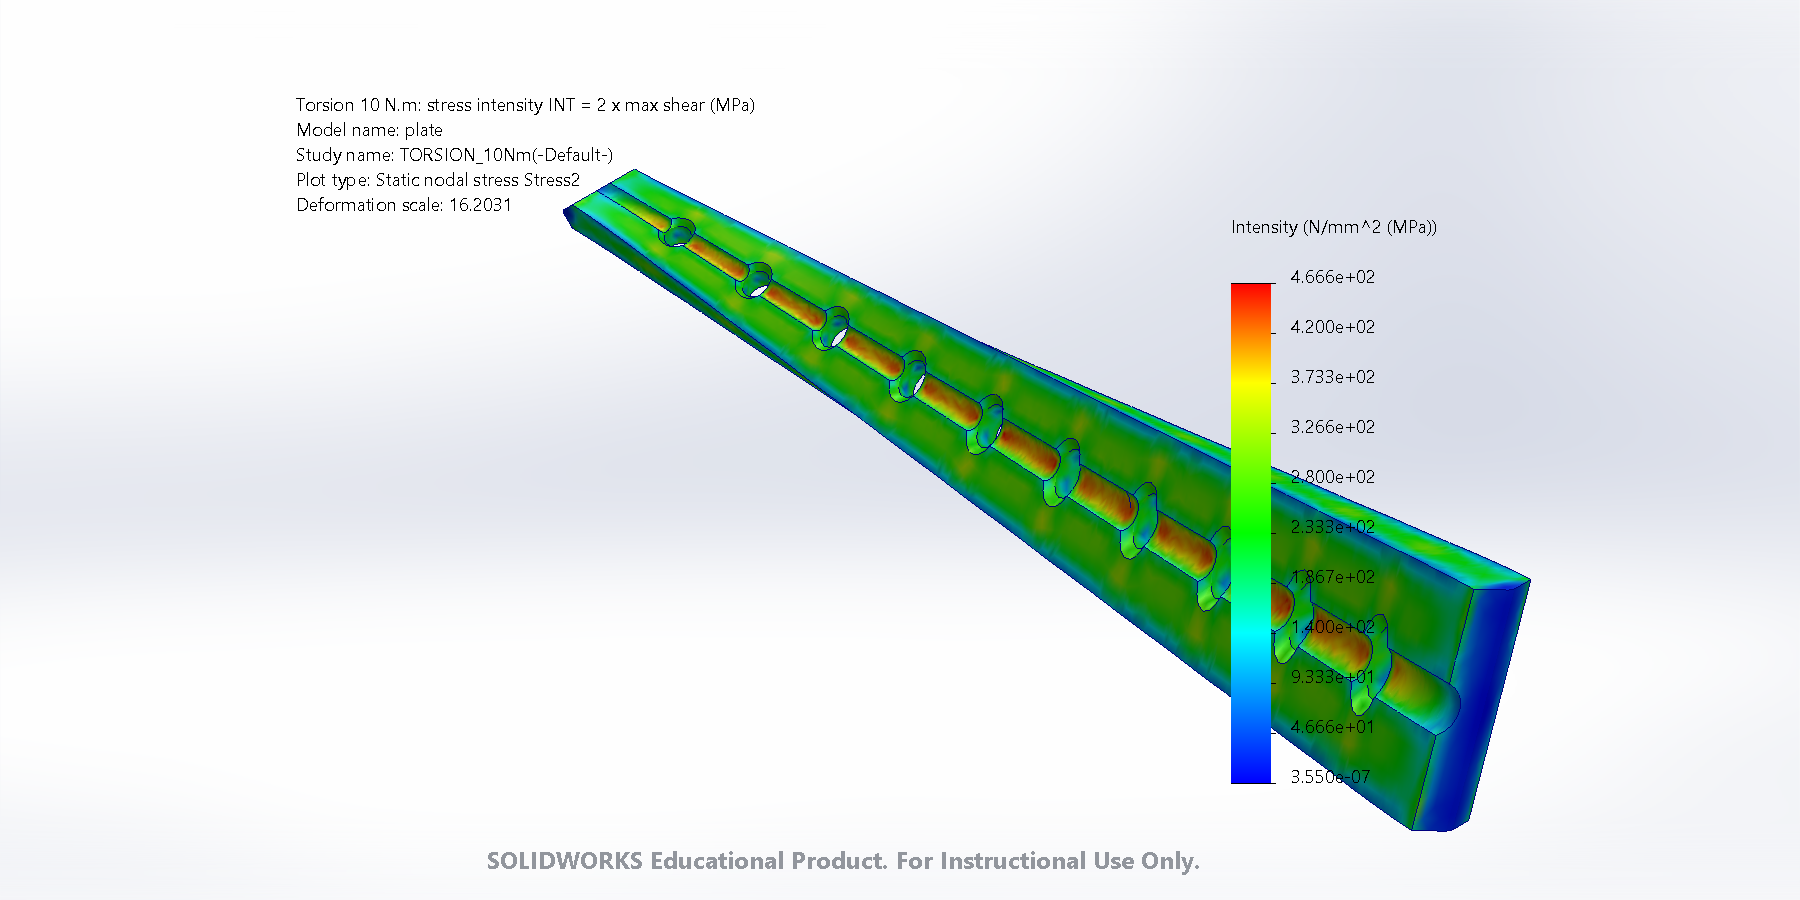
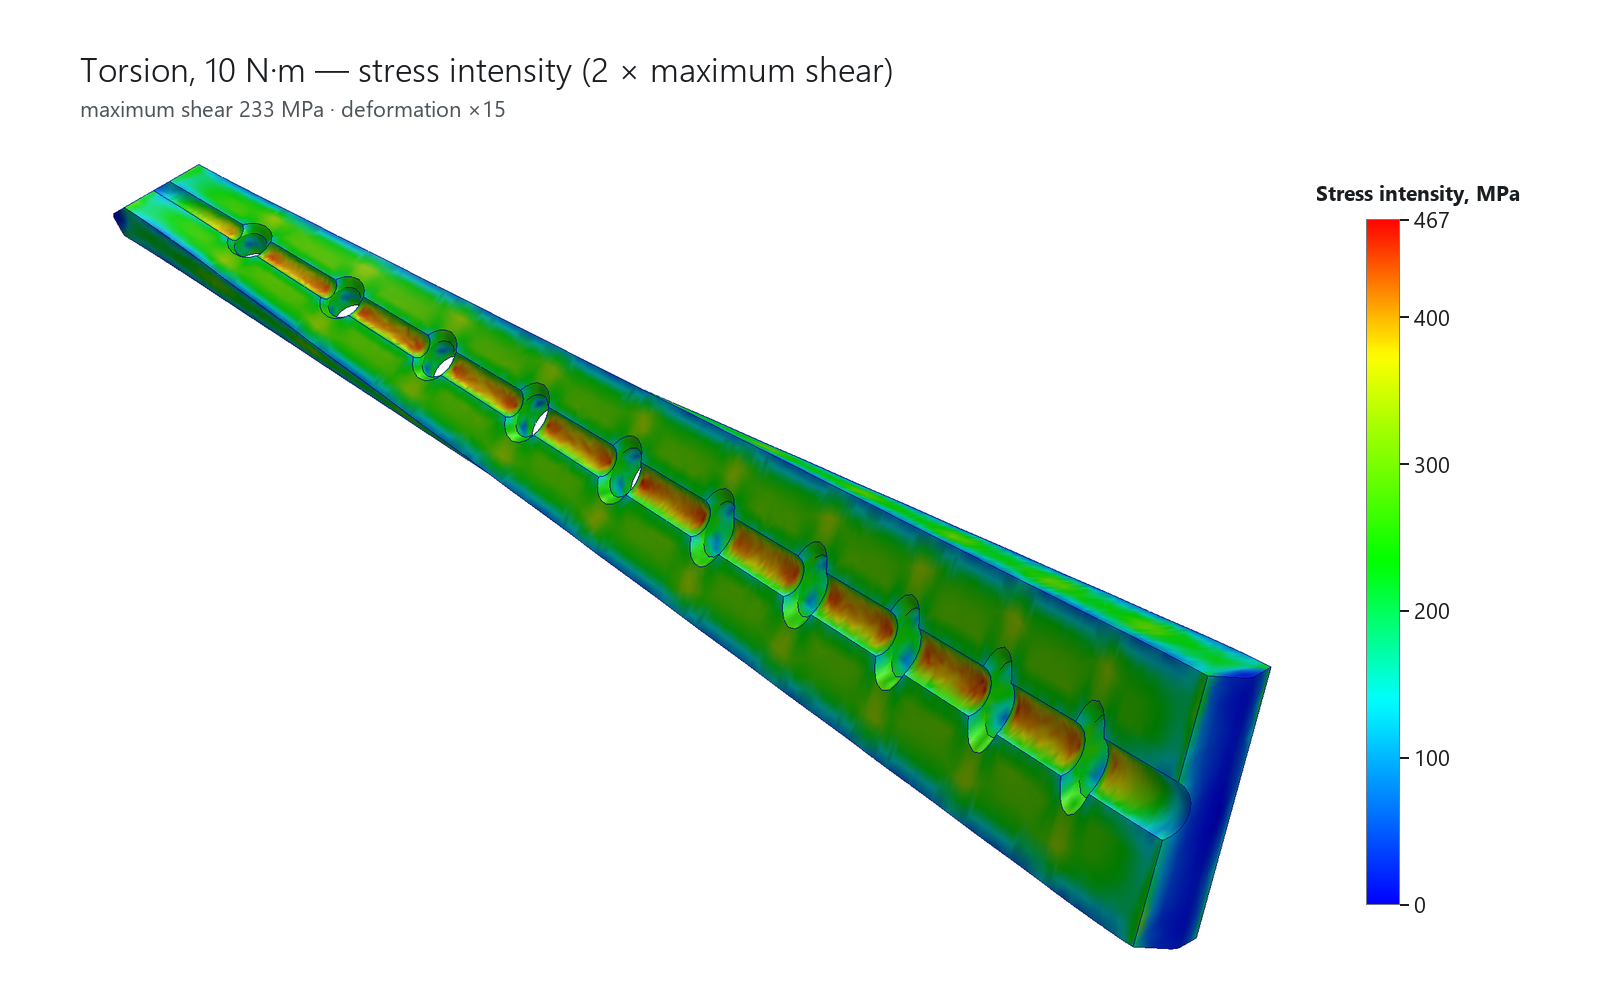
Tibial plate card: SolidWorks plate hero and re-rendered image set
- hero is the SOLIDWORKS render of the plate (white viewport, no split lines); FEA image moves to the strip
- every image centred on a 16:10 white canvas with Segoe UI captions and legends; nothing overlaps
- new hole-detail thumb; Simulink diagram re-exported without label/block overlaps

diff --git a/index.html b/index.html
@@ -670,11 +670,12 @@
 
             <article class="card" role="group" aria-label="Project 4 of 4">
               <figure class="media">
-                <img src="media/tibial-plate-fea-bending.png" alt="Von Mises stress in the tibial plate under ASTM F382 four-point bending">
+                <img src="media/tibial-plate-plate-iso.png" alt="SolidWorks model of the 10-hole Ti-6Al-4V tibial locking compression plate">
               </figure>
               <div class="strip">
                 <button class="thumb" data-img="media/tibial-plate-assembly-iso.png" aria-label="Plate on a fractured tibia model, CAD"></button>
-                <button class="thumb" data-img="media/tibial-plate-plate-iso.png" aria-label="Parametric 10-hole locking plate, CAD"></button>
+                <button class="thumb" data-img="media/tibial-plate-hole-detail.png" aria-label="Locking holes with 82° countersinks and relief channel, CAD"></button>
+                <button class="thumb" data-img="media/tibial-plate-fea-bending.png" aria-label="Four-point bending (ASTM F382), von Mises stress"></button>
                 <button class="thumb" data-img="media/tibial-plate-vonmises.png" aria-label="Four-point bending, von Mises stress, top view"></button>
                 <button class="thumb" data-img="media/tibial-plate-torsion.png" aria-label="Torsion, 10 N·m, stress intensity"></button>
                 <button class="thumb" data-img="media/tibial-plate-deflection.png" aria-label="Four-point bending, resultant displacement"></button>
